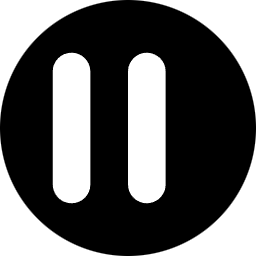
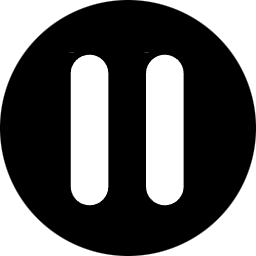
add pause button

Changed region(s): [[0.5, 0.1875, 0.7188, 0.8125], [0.1875, 0.1875, 0.4375, 0.8125]]

diff --git a/Assets/ButtonBarDocument.cs b/Assets/ButtonBarDocument.cs
@@ -16,6 +16,8 @@ public class ButtonBarDocument : MonoBehaviour
     public Texture2D pilotControlTexture;
     public Texture2D normalDotsTexture;
     public Texture2D invertedDotsTexture;
+    public Texture2D pauseTexture;
+    public Texture2D playTexture;
     VisualElement buttonBarUIElem;
     VisualElement tvElem;
     VisualElement fullScreenElem;
@@ -25,12 +27,13 @@ public class ButtonBarDocument : MonoBehaviour
     VisualElement pilotElem;
     VisualElement helpElem;
     VisualElement homeElem;
+    VisualElement pauseElem;
+    VisualElement expandedGroupElem;
     VisualElement fullScreenTapHintElem;
     Label debugElem;
     GameState gameState;
     bool fullScreen = false; //expected state, could change any time
     bool rightSideExpanded = false;
-    List<VisualElement> expandedRightSide = new();
     bool debugDisplayed = false;
 
     public VisualElement GetFullScreenTapHintElem()
@@ -73,13 +76,12 @@ public class ButtonBarDocument : MonoBehaviour
         dotsElem = uiDocument.rootVisualElement.Q<VisualElement>("DotsButton");
         dotsElem.RegisterCallback<ClickEvent>(OnDotsClicked);
 
+        pauseElem = uiDocument.rootVisualElement.Q<VisualElement>("PauseButton");
+        pauseElem.RegisterCallback<ClickEvent>(OnPauseClicked);
+
+        expandedGroupElem = uiDocument.rootVisualElement.Q<VisualElement>("ExpandedGroup");
+
         debugElem = uiDocument.rootVisualElement.Q<Label>("DebugLabel");
-
-        expandedRightSide.Add(muteElem);
-        expandedRightSide.Add(pilotElem);
-        //expandedRightSide.Add(helpElem);
-        expandedRightSide.Add(homeElem);
-
 
         UpdateAll();
 
@@ -95,6 +97,27 @@ public class ButtonBarDocument : MonoBehaviour
         UpdatePilotButton();
         UpdateRightSideExpanded();
         UpdateCameraButton();
+        UpdateHomeButton();
+        UpdatePauseButton();
+    }
+
+    void UpdatePauseButton()
+    {
+        if (pauseElem == null)
+            return;
+
+        pauseElem.style.display = gameState.GetStateContents().pauseButtonVisible ? DisplayStyle.Flex : DisplayStyle.None;
+
+        var newTexture = gameState.IsPaused() ? playTexture : pauseTexture;
+        pauseElem.style.backgroundImage = new StyleBackground(newTexture);
+    }
+
+    void UpdateHomeButton()
+    {
+        if (homeElem == null)
+            return;
+
+        homeElem.style.display = gameState.GetStateContents().homeButtonVisible ? DisplayStyle.Flex : DisplayStyle.None;
     }
 
     void UpdateTvSimButton()
@@ -217,17 +240,22 @@ public class ButtonBarDocument : MonoBehaviour
 
     void UpdateRightSideExpanded()
     {
-        //var dotsDisplayStyle = rightSideExpanded ? DisplayStyle.None : DisplayStyle.Flex;
         var expansionDisplayStyle = rightSideExpanded ? DisplayStyle.Flex : DisplayStyle.None;
-
-        //dotsElem.style.display = dotsDisplayStyle;
-        foreach (var item in expandedRightSide)
-        {
-            item.style.display = expansionDisplayStyle;
-        }
+        expandedGroupElem.style.display = expansionDisplayStyle;
 
         var newTexture = rightSideExpanded ? invertedDotsTexture : normalDotsTexture;
         dotsElem.style.backgroundImage = new StyleBackground(newTexture);
+    }
+
+    void OnPauseClicked(ClickEvent evt)
+    {
+        Debug.Log("Pause clicked");
+        if (evt.target != pauseElem)
+            return;
+
+        gameState.SetPause(!gameState.IsPaused());
+
+        UpdatePauseButton();
     }
 
     void OnDotsClicked(ClickEvent evt)

diff --git a/Assets/GameState.cs b/Assets/GameState.cs
@@ -83,6 +83,8 @@ public class GameStateContents
     public GameObject boss;
     public float restartCoolDownSeconds = 0f;
     public bool cameraButtonVisible = false;
+    public bool homeButtonVisible = true;
+    public bool pauseButtonVisible = true;
 }
 
 public class GameState : MonoBehaviour
@@ -120,6 +122,16 @@ public class GameState : MonoBehaviour
     public Vector3 playerPosition;
     private EventPubSubNoArg pubSub = new();
     private EventPubSub<BombLandedEventArgs> bombLandedPubSub = new();
+
+    public void SetPause(bool paused)
+    {
+        Time.timeScale = paused ? 0f : 1f;
+    }
+
+    public bool IsPaused()
+    {
+        return Time.timeScale == 0f;
+    }
 
     public void SetPlaneHeights(float playerPlaneHeight, float enemyPlaneHeight)
     {
